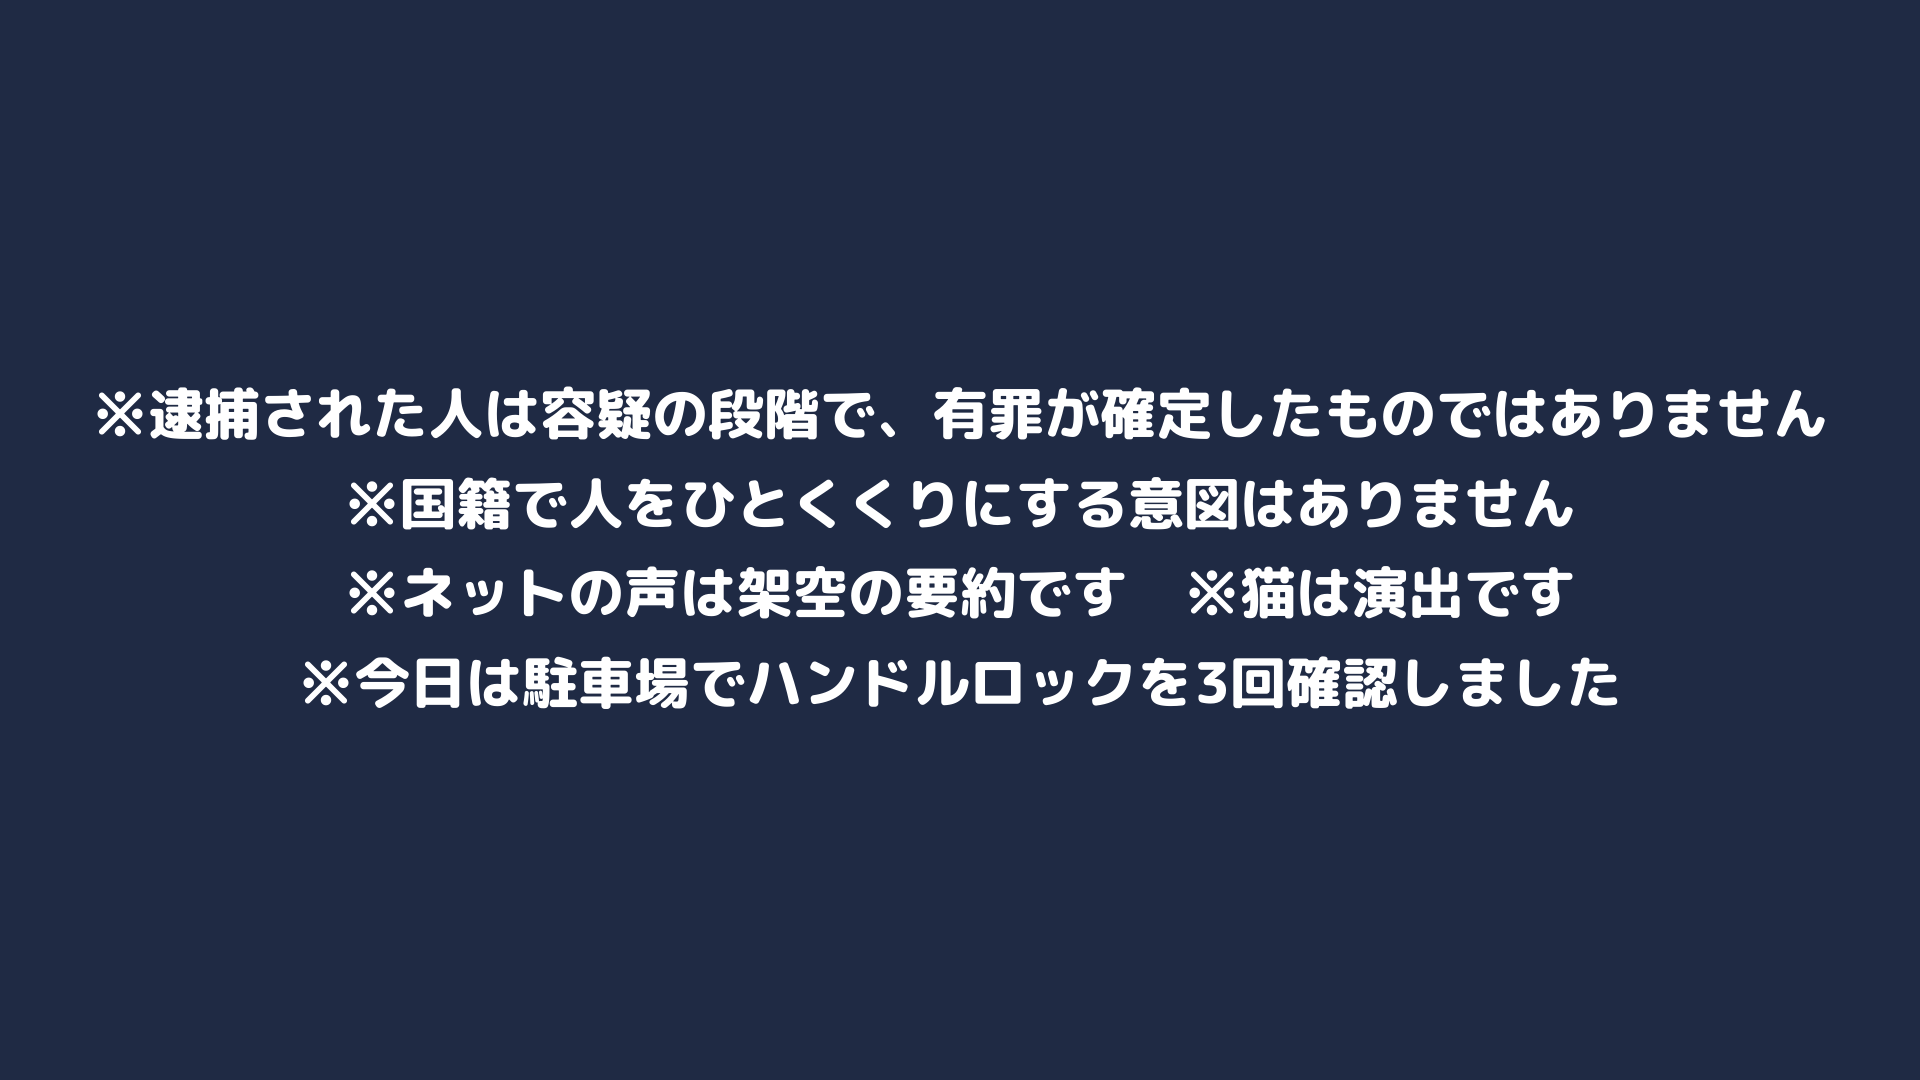
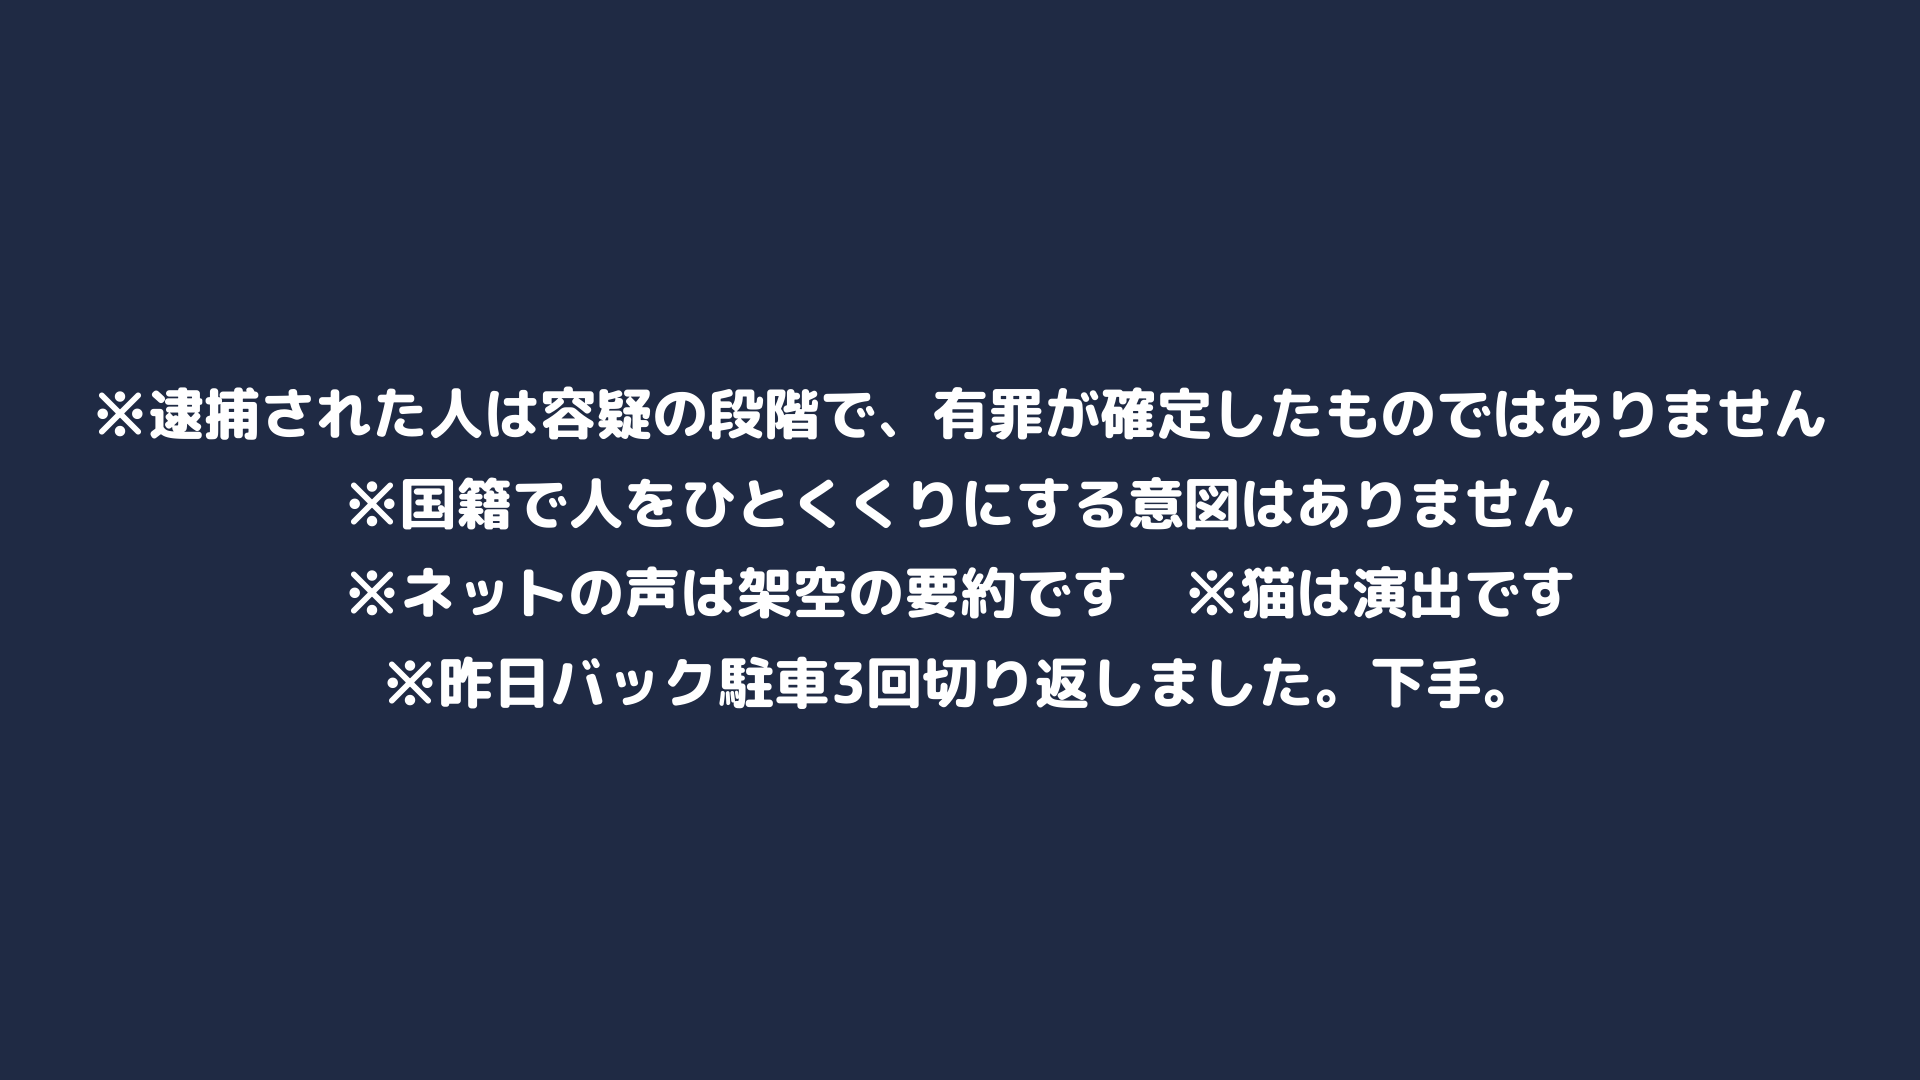
13_yard: update today's one-liner in the opening notice
Claude-Session: https://claude.ai/code/session_011g9CsrfFD5YswfNSvNDW39

Changed region(s): [[0.1562, 0.6111, 0.8438, 0.6722]]

diff --git a/catmeme/make_parts_13_yard.py b/catmeme/make_parts_13_yard.py
@@ -17,7 +17,7 @@ PREV = os.path.join(OUT, "preview")
 ITEMS = {
     "e00_notice": P.message(["※逮捕された人は容疑の段階で、有罪が確定したものではありません", "※国籍で人をひとくくりにする意図はありません",
                              "※ネットの声は架空の要約です　※猫は演出です",
-                             "※今日は駐車場でハンドルロックを3回確認しました"], opaque=True, size=56),   # 最後の行は今日の一言
+                             "※昨日バック駐車3回切り返しました。下手。"], opaque=True, size=56),   # 最後の行は今日の一言（10/14 ユーザー指定）
     "e01_title": P.message(["盗難ハイエース300台、塀の中で解体され海外へ", "日本は“盗難天国”なのか"], sub="2026年　茨城県のヤードで4人逮捕", size=74),
     "e01_quote": P.message(["窃盗団には「自動車窃盗は", "大した罪にならない」という", "意識があるのではないか"], sub="自動車の取材を続けるジャーナリスト（報道より）", size=86),
     "e02_roles": table3("役割分担（警察の見立て）", ("役割", "だれ", "ポイント"), [
